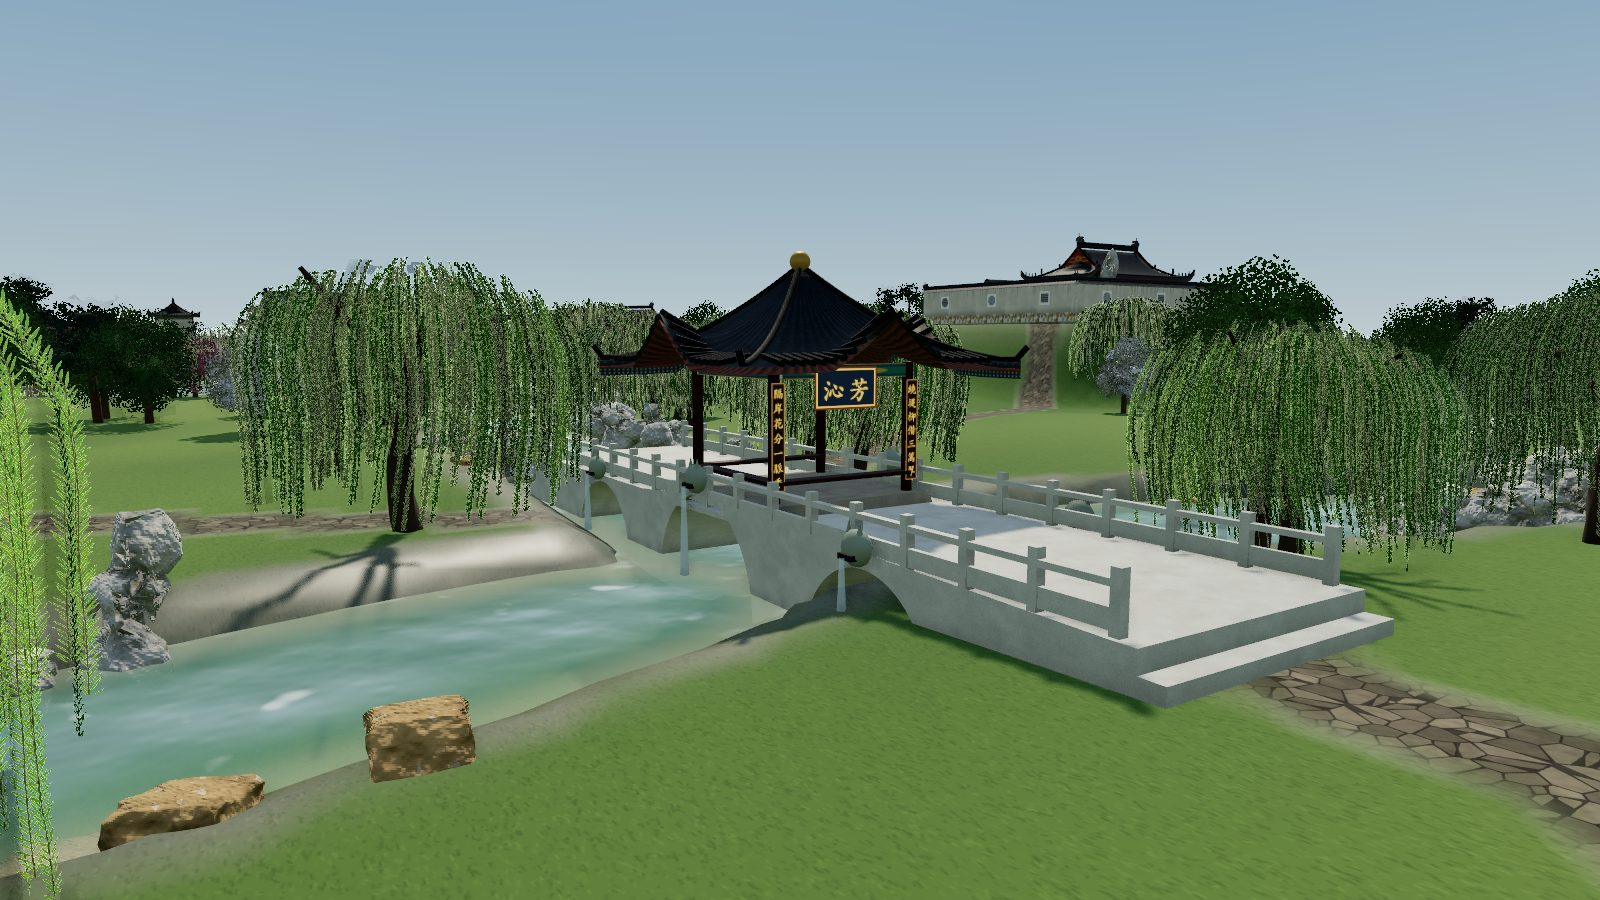
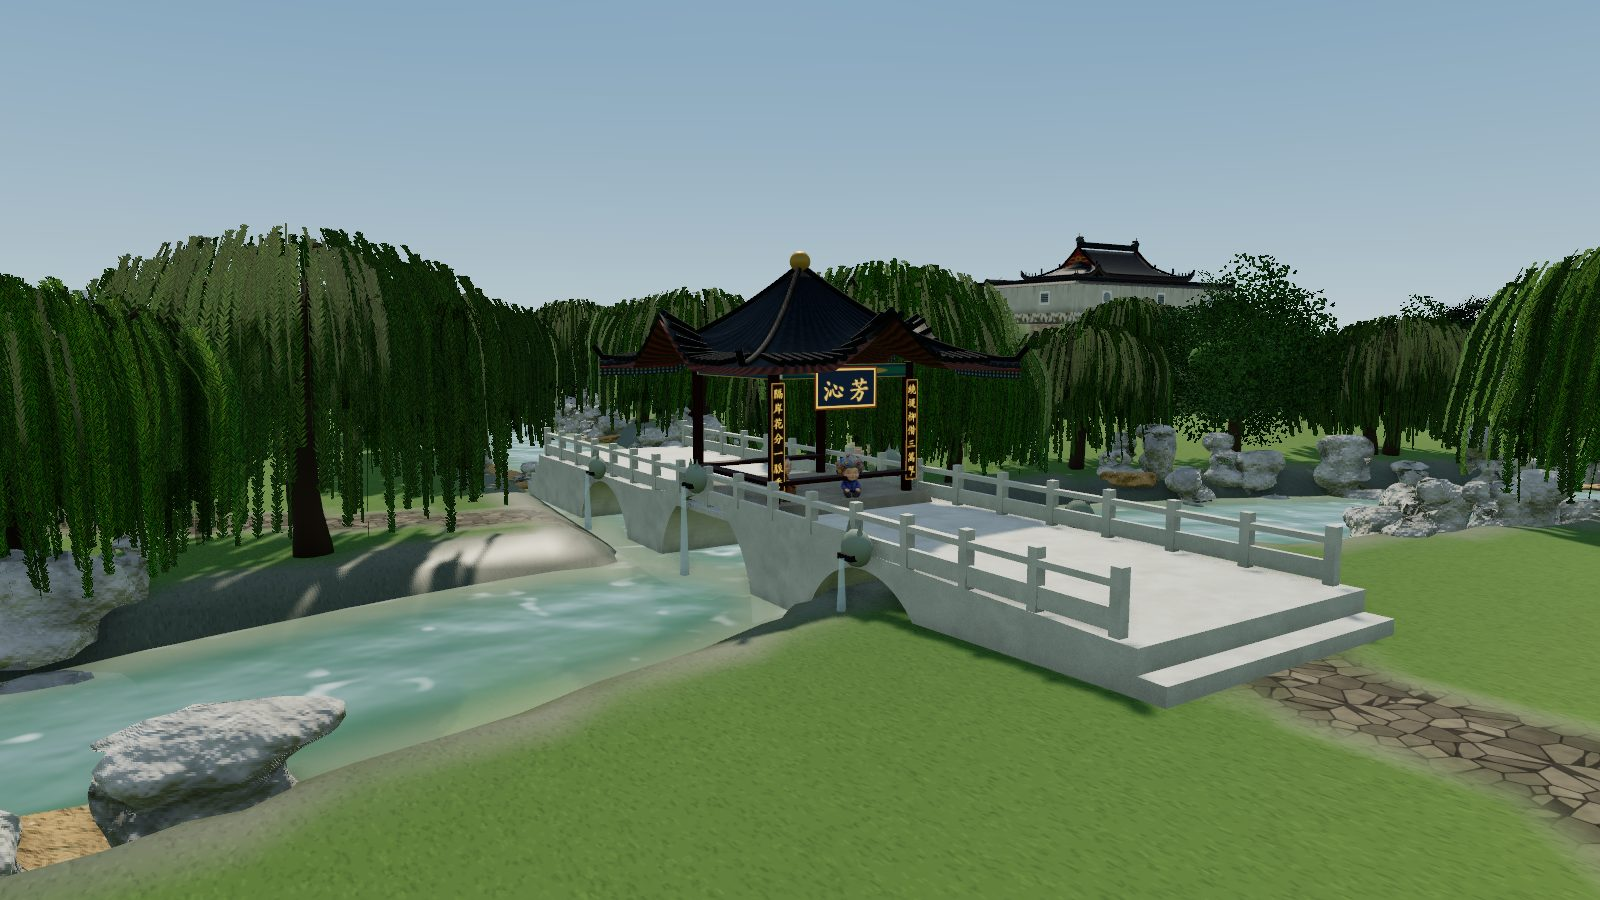
loop iter 9: 雪景（琉璃世界白雪红梅）、冬季规则、README 雪景图

diff --git a/web/src/main.js b/web/src/main.js
@@ -15,6 +15,7 @@ import { buildFlora } from './flora.js';
 import { placeProps } from './props.js';
 import { placeInteriorModels, setInteriorLight } from './interiors.js';
 import { animatedTextures } from './places.js';
+import { snowUniform, snowifyScene, buildSnowfall } from './snow.js';
 import { initDynamics, updateDynamics } from './dynamics.js';
 import { waterDepthMetric } from './terrain.js';
 import { buildBridges, buildBankRocks, buildLanternField, buildGlow } from './details.js';
@@ -70,6 +71,7 @@ const TIMES = [
   { name: '昼', elev: 48, az: 150, sun: '#fff3dd', int: 2.6, hemi: 1.0, fog: '#cdd9dc', top: '#6f9cc4', hor: '#d6e2e4', glow: '#fff4d6', exp: 1.05 },
   { name: '暮', elev: 7, az: 240, sun: '#ffb071', int: 1.8, hemi: 0.5, fog: '#d9b49a', top: '#5a6f9a', hor: '#f0b88a', glow: '#ffcf8a', exp: 0.85 },
   { name: '元宵', elev: 30, az: 60, sun: '#8ea6d6', int: 0.5, hemi: 0.3, fog: '#1a1f2c', top: '#070b18', hor: '#2a2236', glow: '#000000', exp: 0.75, night: true, yuanxiao: true },
+  { name: '雪', elev: 22, az: 200, sun: '#eef2f7', int: 1.3, hemi: 1.0, fog: '#dde3e8', top: '#aab8c6', hor: '#e8ecef', glow: '#ffffff', exp: 0.95, snow: true },
   { name: '月夜', elev: 38, az: 120, sun: '#a9c0ea', int: 0.7, hemi: 0.22, fog: '#1d2633', top: '#0b1226', hor: '#24304a', glow: '#000000', exp: 0.7, night: true },
 ];
 let timeIdx = 0;
@@ -96,6 +98,9 @@ function applyTime(i) {
   MAT.lantern.emissiveIntensity = t.yuanxiao ? 2.4 : t.night ? 1.2 : i === 1 ? 0.35 : 0;
   setWindowGlow(t.yuanxiao ? 0.55 : t.night ? 0.35 : i === 1 ? 0.06 : 0);
   setInteriorLight(!!t.night, !!t.yuanxiao);
+  snowUniform.value = t.snow ? 1 : 0;
+  if (snowfall) snowfall.visible = !!t.snow;
+  if (lotusGroup) lotusGroup.forEach((o) => (o.visible = !t.snow)); // 荷叶 gone in winter
   renderer.shadowMap.needsUpdate = true;
   if (lanternField) { lanternField.mesh.visible = !!t.yuanxiao; fieldGlow.visible = !!t.yuanxiao; buildingGlow.visible = !!t.night; }
   $('b-time').textContent = '时辰：' + t.name;
@@ -165,6 +170,7 @@ function batch(root) {
 }
 scene.remove(placesRoot);
 const lanternSpots = [];
+let snowfall = null, lotusGroup = null;
 const batched = batch(placesRoot);
 scene.add(batched);
 const interiorsReady = placeInteriorModels(placesRoot, scene);
@@ -173,6 +179,9 @@ lanternField = buildLanternField();
 fieldGlow = buildGlow(lanternField.points, 3.4);
 buildingGlow = buildGlow(lanternSpots, 4.5);
 scene.add(lanternField.mesh, fieldGlow, buildingGlow);
+snowfall = buildSnowfall();
+scene.add(snowfall);
+lotusGroup = floraGroup.children.filter((o) => o.userData.lotus);
 
 const propsReady = placeProps(props, scene);
 initDynamics({ scene, camera, terrain, water, flora: floraGroup, heightAt, waterDepthMetric, layout: L, getTimeMode: () => TIMES[timeIdx].name });
@@ -400,6 +409,7 @@ function setQuality(q) {
 }
 $('b-quality').onclick = () => setQuality(quality === 'high' ? 'mid' : 'high');
 setQuality(quality);
+snowifyScene(scene);
 applyTime(timeIdx);
 
 let last = performance.now();
@@ -410,6 +420,7 @@ function tick() {
   sky.position.copy(camera.position);
   for (const [t, v] of animatedTextures) t.offset.y -= v * dt; // flowing water strips
   updateDynamics(dt, now / 1000);
+  if (snowfall.visible) snowfall.userData.update(dt, now / 1000, camera);
   if (flight) {
     flight.t += dt / flight.dur;
     const k = flight.t >= 1 ? 1 : 0.5 - 0.5 * Math.cos(Math.PI * flight.t);
@@ -446,5 +457,5 @@ addEventListener('resize', () => {
   bloomPass.setSize(innerWidth / 2, innerHeight / 2);
 });
 tick();
-propsReady.then(() => { renderer.shadowMap.needsUpdate = true; const l = $('loading'); l.style.opacity = 0; setTimeout(() => (l.hidden = true), 700); });
+propsReady.then(() => { renderer.shadowMap.needsUpdate = true; snowifyScene(scene); const l = $('loading'); l.style.opacity = 0; setTimeout(() => (l.hidden = true), 700); });
 window.__dgy = { camera, scene, renderer, setMode, goStop, flyTo, viewFor, PLACE, applyTime: setTime, setQuality, setTimeByName: (n) => setTime(Math.max(0, TIMES.findIndex((t) => t.name === n))), orbit, showCard, get flight() { return flight; } };

diff --git a/web/src/snow.js b/web/src/snow.js
@@ -1,0 +1,74 @@
+// 第四十九回 琉璃世界白雪红梅: snow settles on every upward-facing surface; flakes fall around the viewer.
+// A shared uniform drives all materials so switching season is instant.
+import * as THREE from 'three';
+
+export const snowUniform = { value: 0 };
+
+// Patch a material so that upward-facing fragments blend toward snow. amount scales coverage
+// (foliage holds less snow; red plum blossoms none, so 红梅 stays vivid against the white).
+export function snowify(mat, amount = 1) {
+  if (!mat || mat.userData.snowPatched || !(mat.isMeshStandardMaterial || mat.isMeshLambertMaterial || mat.isMeshPhongMaterial)) return;
+  mat.userData.snowPatched = true;
+  const prev = mat.onBeforeCompile, prevKey = mat.customProgramCacheKey?.bind(mat);
+  mat.onBeforeCompile = (sh, r) => {
+    prev?.call(mat, sh, r);
+    sh.uniforms.uSnow = snowUniform;
+    sh.uniforms.uSnowAmt = { value: amount };
+    sh.vertexShader = sh.vertexShader
+      .replace('#include <common>', '#include <common>\nvarying float vSnowUp;')
+      .replace('#include <defaultnormal_vertex>', `#include <defaultnormal_vertex>
+        {
+          vec3 sn = objectNormal;
+          #ifdef USE_INSTANCING
+            sn = mat3(instanceMatrix) * sn;
+          #endif
+          vSnowUp = normalize(mat3(modelMatrix) * sn).y;
+        }`);
+    sh.fragmentShader = sh.fragmentShader
+      .replace('#include <common>', '#include <common>\nvarying float vSnowUp;\nuniform float uSnow, uSnowAmt;')
+      .replace('#include <color_fragment>', `#include <color_fragment>
+        {
+          float up = gl_FrontFacing ? vSnowUp : -vSnowUp;
+          float cover = uSnow * uSnowAmt * smoothstep(0.25, 0.75, up);
+          diffuseColor.rgb = mix(diffuseColor.rgb, vec3(0.92, 0.94, 0.97), clamp(cover, 0.0, 1.0));
+        }`);
+  };
+  mat.customProgramCacheKey = () => (prevKey ? prevKey() : '') + '|snow' + amount;
+  mat.needsUpdate = true;
+}
+
+// Walk the scene once and patch materials; callers can tag meshes with userData.snowAmt.
+export function snowifyScene(root) {
+  root.traverse((o) => {
+    if (!o.isMesh || o.userData.noSnow) return;
+    const mats = Array.isArray(o.material) ? o.material : [o.material];
+    for (const m of mats) snowify(m, o.userData.snowAmt ?? m.userData.snowAmt ?? 1);
+  });
+}
+
+// Falling flakes in a box that follows the camera.
+export function buildSnowfall(count = 6000) {
+  const box = 90, pos = new Float32Array(count * 3), spd = new Float32Array(count);
+  for (let i = 0; i < count; i++) {
+    pos[i * 3] = (Math.random() - 0.5) * box; pos[i * 3 + 1] = Math.random() * 40; pos[i * 3 + 2] = (Math.random() - 0.5) * box;
+    spd[i] = 0.8 + Math.random() * 1.2;
+  }
+  const geo = new THREE.BufferGeometry();
+  geo.setAttribute('position', new THREE.BufferAttribute(pos, 3));
+  const c = document.createElement('canvas'); c.width = c.height = 32;
+  const g = c.getContext('2d'); const gr = g.createRadialGradient(16, 16, 0, 16, 16, 16);
+  gr.addColorStop(0, 'rgba(255,255,255,1)'); gr.addColorStop(1, 'rgba(255,255,255,0)'); g.fillStyle = gr; g.fillRect(0, 0, 32, 32);
+  const pts = new THREE.Points(geo, new THREE.PointsMaterial({ map: new THREE.CanvasTexture(c), size: 0.22, transparent: true, depthWrite: false, opacity: 0.9 }));
+  pts.frustumCulled = false; pts.visible = false;
+  pts.userData.update = (dt, t, cam) => {
+    const p = geo.attributes.position.array;
+    for (let i = 0; i < count; i++) {
+      p[i * 3 + 1] -= spd[i] * dt;
+      p[i * 3] += Math.sin(t * 0.7 + i) * 0.3 * dt;
+      if (p[i * 3 + 1] < -2) p[i * 3 + 1] += 40;
+    }
+    geo.attributes.position.needsUpdate = true;
+    pts.position.set(Math.round(cam.position.x / 10) * 10, cam.position.y - 20, Math.round(cam.position.z / 10) * 10);
+  };
+  return pts;
+}

diff --git a/web/src/flora.js b/web/src/flora.js
@@ -398,6 +398,7 @@ export function buildFlora(requests, exclusions) {
       }), WIND[type]), mats.length);
       mats.forEach((m, i) => { sm.setMatrixAt(i, m); cm.setMatrixAt(i, m); });
       sm.castShadow = cm.castShadow = true; sm.receiveShadow = cm.receiveShadow = true;
+      cm.userData.snowAmt = type === 'plum' ? 0 : 0.55; sm.userData.snowAmt = 0.7;
       group.add(sm, cm);
     } else if (SPECIES[type]) {
       const geo = SPECIES[type]();
@@ -411,7 +412,7 @@ export function buildFlora(requests, exclusions) {
   if (buckets.bamboo) group.add(...bambooMeshes(buckets.bamboo));
   if (buckets.banana) group.add(cardMesh(buckets.banana, 'banana'));
   if (buckets.reed) group.add(cardMesh(buckets.reed, 'reed'));
-  if (buckets.lotus) group.add(...lotusMeshes(buckets.lotus));
+  if (buckets.lotus) { const lm = lotusMeshes(buckets.lotus); lm.forEach((o) => (o.userData.lotus = true)); group.add(...lm); }
   if (buckets.petals) group.add(discMesh(buckets.petals, '#f3b6c2', 0.12, WIND.petals));
   return group;
 }

diff --git a/web/src/dynamics.js b/web/src/dynamics.js
@@ -13,6 +13,7 @@ let nightLast = null;
 const rand = (a, b) => a + Math.random() * (b - a);
 const pick = (arr) => arr[Math.floor(Math.random() * arr.length)];
 const _sky = new THREE.Color();
+const isWinter = () => (C.getTimeMode?.() || '') === '雪';
 const isNight = () => {
   const m = C.getTimeMode?.() || '昼';
   if (m === '月夜' || m === '元宵') return true;
@@ -160,6 +161,8 @@ function petals() {
 
   return {
     update(dt, t) {
+      im.visible = !isWinter(); // no blossoms falling in the snow
+      if (!im.visible) return;
       refresh -= dt;
       if (refresh <= 0) {
         refresh = 1.5;
@@ -272,8 +275,8 @@ function butterflies() {
   const a = [0, 0, 0], c2 = [0, 0, 0];
   return {
     update(dt, t, night, changed) {
-      im.visible = !night;
-      if (night) return;
+      im.visible = !night && !isWinter();
+      if (!im.visible) return;
       uni.uT.value = t;
       for (let i = 0; i < N; i++) {
         const b = B[i];

diff --git a/README.md b/README.md
@@ -19,13 +19,17 @@ A walkable 3D reconstruction of the Grand View Garden from *Dream of the Red Cha
 ![元宵](docs/images/yuanxiao.jpg)
 **元宵** “园中香烟缭绕，花彩缤纷，处处灯光相映”（第十八回）
 
+| | |
+|---|---|
+| ![雪景](docs/images/snow.jpg) **雪** 琉璃世界白雪红梅（第四十九回） | ![栊翠庵红梅](docs/images/snow_plum.jpg) **栊翠庵** “十数株红梅如胭脂一般，映着雪色，分外显得精神” |
+
 ## 有什么
 
 - **布局与考据**：以第十七回游园路线为骨架，二十余处景致的方位、匾额、楹联、引文都出自原文（`research/layout.json`，原文在 `research/yuanwen/`）。方位取舍写在每条的 `note` 里。
 - **建筑**：程序化清式构件：卷棚/歇山/硬山/攒尖屋顶，筒瓦勾头、正吻走兽、斗拱雀替、和玺/苏式/旋子彩画、五种棂格、粉墙虎皮石、游廊、月洞门、石拱桥。
 - **室内**：潇湘馆、秋爽斋、蘅芜苑、怡红院、稻香村、顾恩思义殿，陈设依第十七、十八、四十、四十一回描写（`research/interiors.md`）。
 - **自然与动态**：沁芳溪按原著方向流动，沁芳闸跌水；带孔洞的太湖石与湖石驳岸；垂柳、翠竹、杏花、海棠、芭蕉随风摆动；落花、蝴蝶、锦鲤、鹅鸭、萤火。
-- **时辰**：昼 / 暮 / 元宵 / 月夜。
+- **时辰与季节**：昼 / 暮 / 元宵 / 雪 / 月夜。雪景中屋顶、地面积雪，飘雪，红梅不覆雪。
 - **玩法**：鸟瞰、第一人称漫步（可进屋）、“贾政游园”自动导览、点击景点看原文、小地图。
 
 ## 本地运行

diff --git a/loop/LOG.md b/loop/LOG.md
@@ -62,3 +62,10 @@
 - 改动：main.js 阴影图改为按需更新（太阳不动：时辰切换、道具/家具加载完成时刷新），夜景鸟瞰 32 → 54 fps；places.js 泉流贴图沿水流滚动（animatedTextures）；interiors.js setInteriorLight（夜间灯具×2.2、元宵×3，室内补光×1.6）；柳条 alphaTest 回调到 0.12，远处垂柳不再只剩枝干
 - 证据：loop/runs/20261007-211022/、loop/runs/20261007-210948/overview.png（远景垂柳）、night.png
 - 剩余缺口：更多日常人物（丫鬟、婆子）；元宵夜船灯；冬雪场景（第四十九回）
+
+## iter 9 — 2026-10-07 21:45
+- 目标：第四十九回"琉璃世界白雪红梅"——雪景时辰；红梅不覆雪；冬季隐去蝴蝶、落花、荷叶
+- 改动：新增 snow.js（共享 uSnow，按世界法线朝上程度把屋面、地面、山石、树冠混合为雪色；树叶 0.55、枝干 0.7、红梅 0 覆雪）、飘雪粒子随相机；main.js 新增"雪"时辰；dynamics.js 冬季隐藏蝴蝶与落花；loop/config.json 新增 snow_longcui 视角，time 改用名称（避免插入新时辰后序号错位）；README 加雪景两图
+- 证据：loop/runs/20261007-214037/（snow_longcui.png）、docs/images/snow.jpg、snow_plum.jpg
+- 指标：fps 55.7/59.9，errors 0（33 视角）
+- 剩余缺口：芦雪广"四面都是芦苇掩覆"雪中芦花；池面结冰；更多日常人物；元宵船灯
